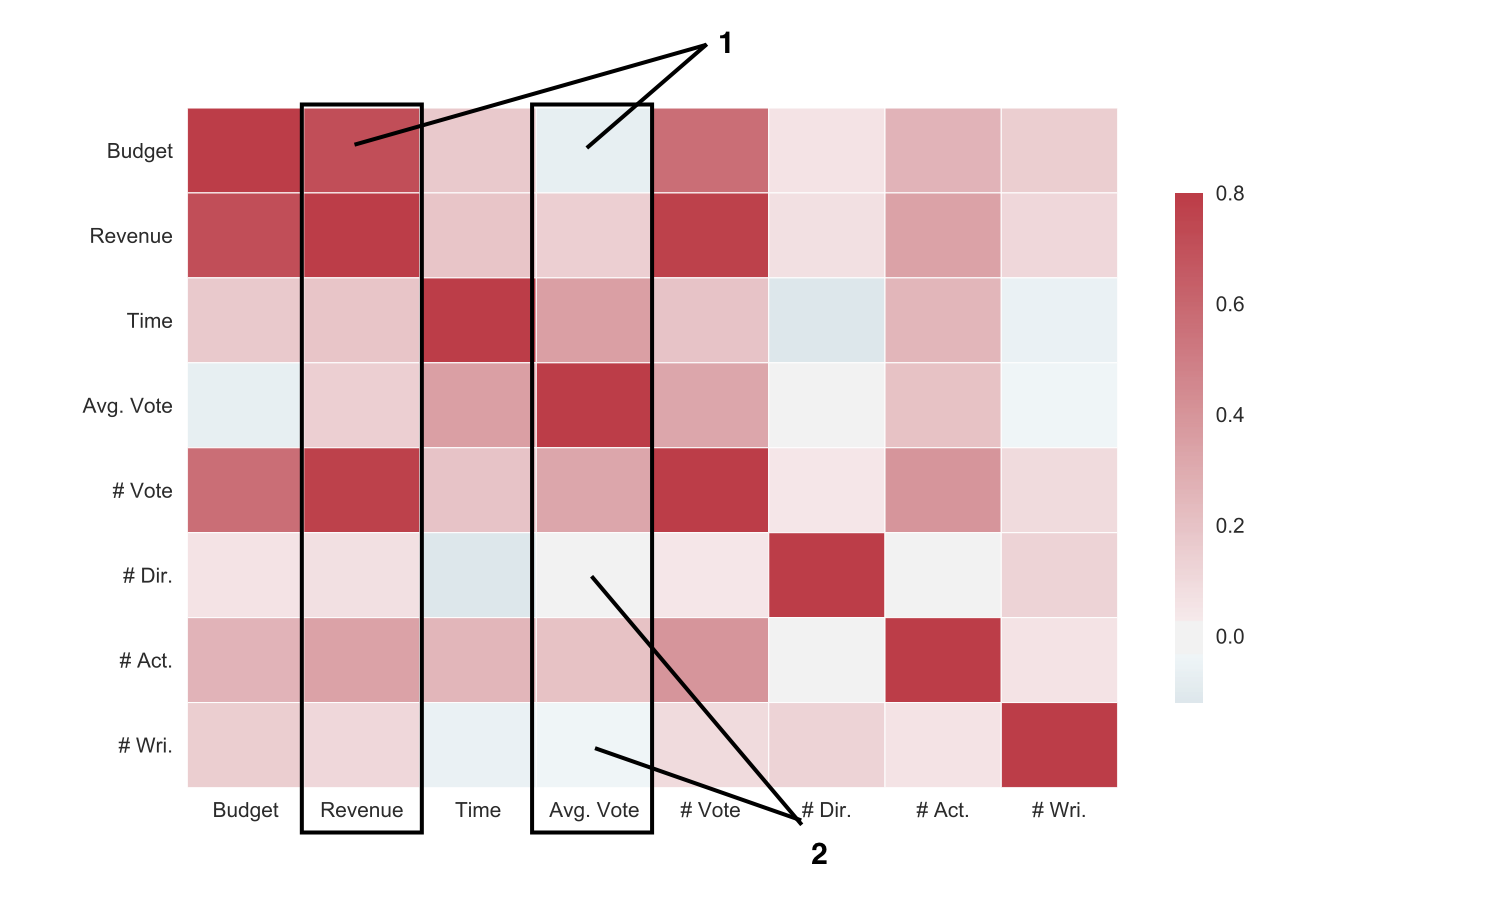
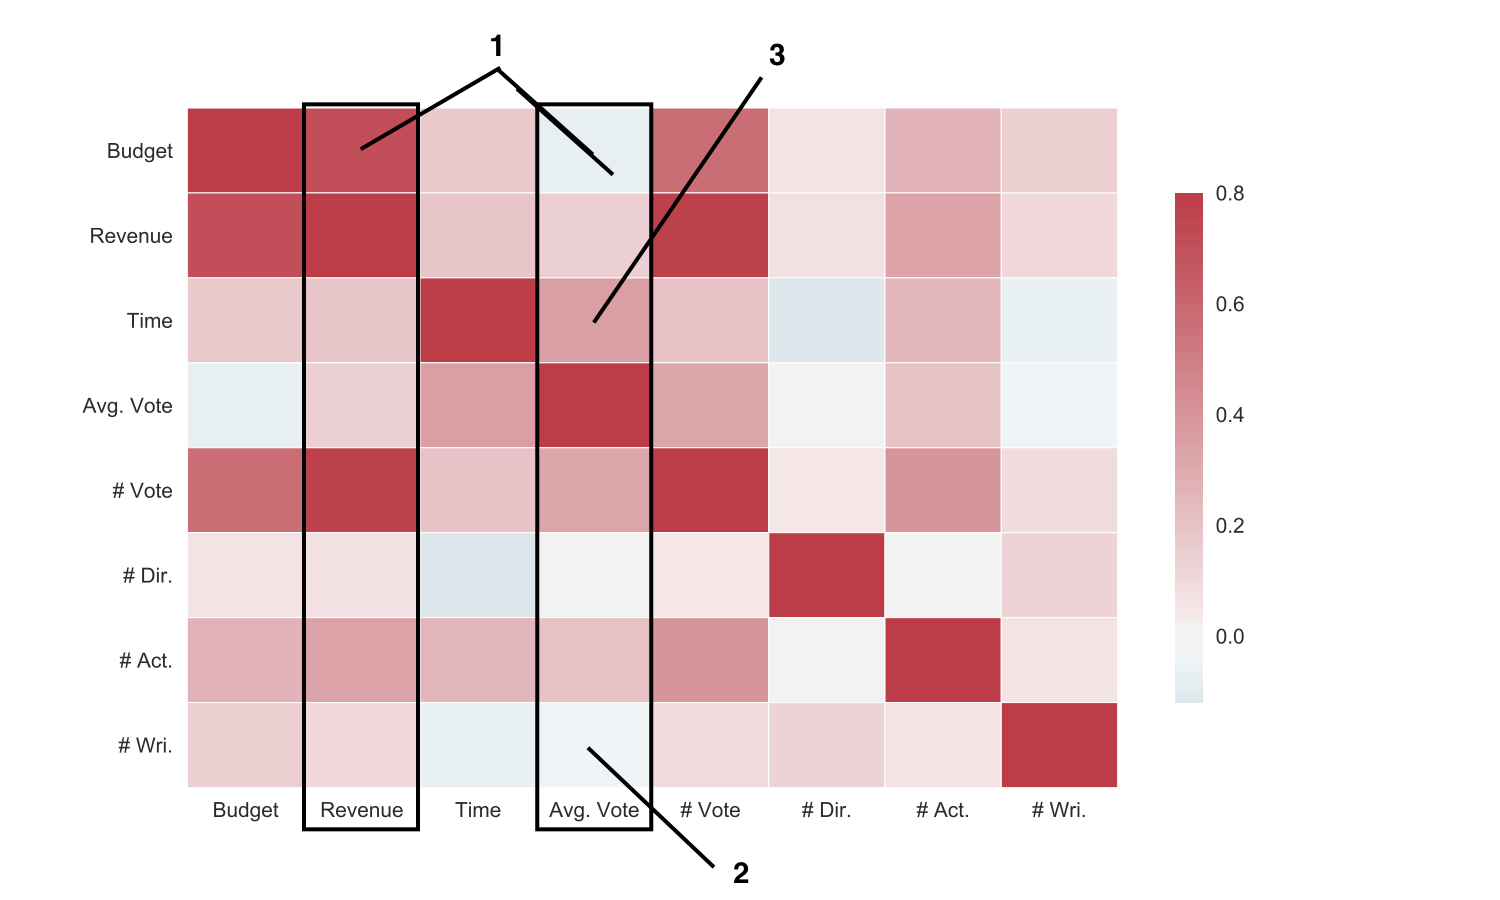
new corr fig

diff --git a/pages/post3.md b/pages/post3.md
@@ -9,24 +9,25 @@ The first thing to do would be to look at a simple correlation matrix of the num
 
 I immediately noticed two things in this correlation matrix:
 1) Budget is a decent predictor of revenue (it's also a good predictor of number of votes, I guess higher budget movies have more advertising which increases both of those), but it's negatively correlated with the average vote at the end.
-2) Along with a high budget, having more directors and more writers seems to lower the final average rating of the film. Maybe artistic collaboration is actually more of a conflict.
+2) Along with a high budget, having more writers seems to lower the final average rating of the film. Maybe artistic collaboration is actually more of a conflict.
+3) Longer runtime seems to influence the average rating of a film positively, but has less of an effect on revenue.
 
 Anyways, to see if we can predict the success of a film based on the inputs, I just quickly implemented a few simple regressors. Out of our dataset of ~23 thousand items, ~3 thousand have a complete set of attributes. We split this into a training set and and a testing set, and success was determined by the Pearson correlation coefficient between the estimated and true values of the testing set. The algorithms are just a nearest neaighbor (KD) and the scikit-learn support vector regression, bayesian regression, and random forest regression.
 
 
 Predicting Revenue
 
-KD | 0.54 | 0.52 | 0.54 
-SVM | 0.05 | 0.09 | 0.08 
-BR | 0.74 | 0.72 | 0.72 
-RF | 0.75 | 0.71 | 0.75 
+KD | 0.54 | 0.52 | 0.54
+SVM | 0.05 | 0.09 | 0.08
+BR | 0.74 | 0.72 | 0.72
+RF | 0.75 | 0.71 | 0.75
 
 Predicting Rating
 
-KD | 0.28 | 0.27 | 0.32 
-SVM | 0.20 | 0.22 | 0.21 
-BR | 0.45 | 0.36 | 0.42 
-RF | 0.50 | 0.50 | 0.54 
+KD | 0.28 | 0.27 | 0.32
+SVM | 0.20 | 0.22 | 0.21
+BR | 0.45 | 0.36 | 0.42
+RF | 0.50 | 0.50 | 0.54
 
 
 Section 2 - actors, directors, writers with the best ratings, consistancy of actors, directors, writers
